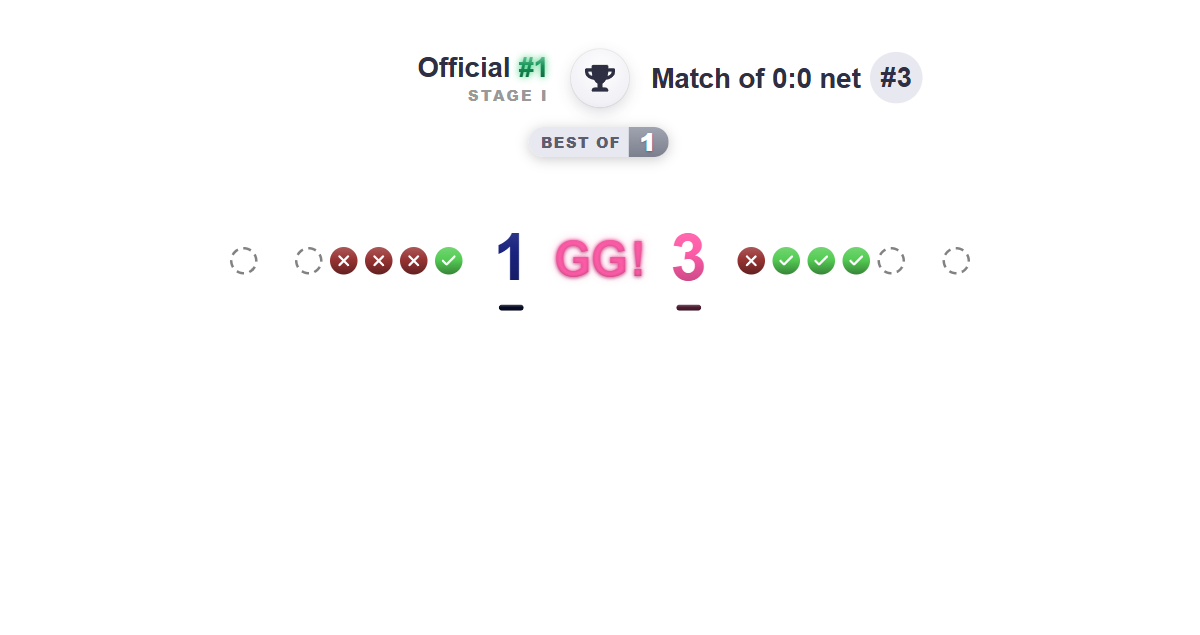
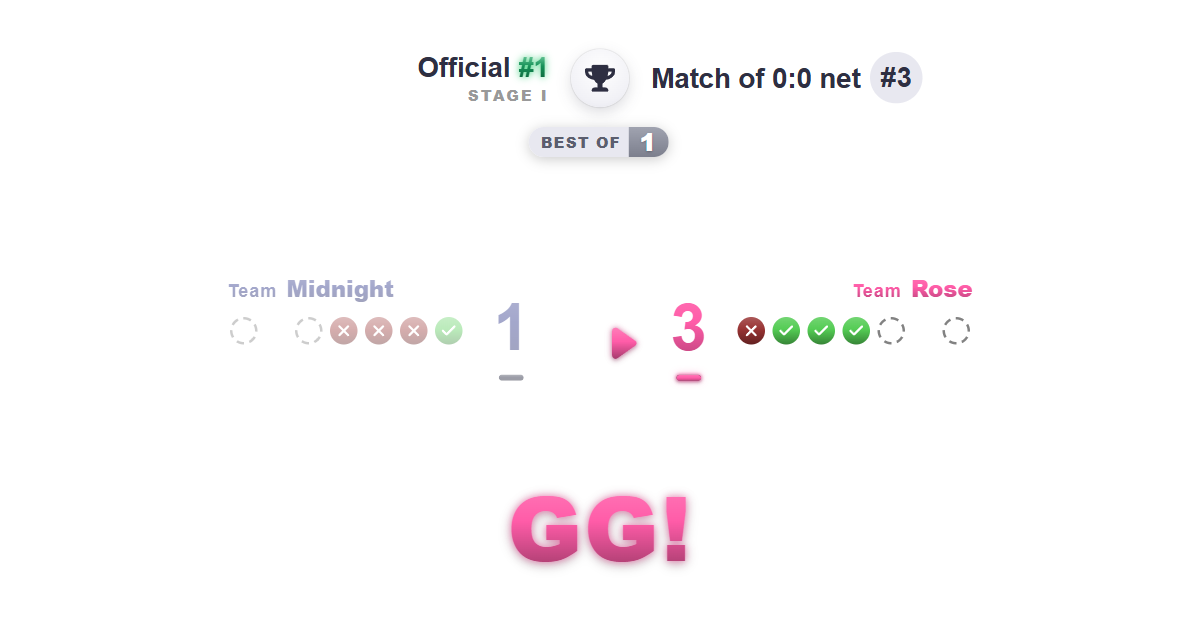
some other updates + Info Page relevancy update

diff --git a/src/pages/SpecialModeInfoPage/SpecialModeInfoPage.jsx b/src/pages/SpecialModeInfoPage/SpecialModeInfoPage.jsx
@@ -1311,6 +1311,10 @@ const OfficialSubPage = ({ scrollToAnchor }) => (
                 <img src={rightWinsPens} alt="Right team win the penalty series" className={css.image} style={{ width: '30vw', height: '34vh' }} />
             </div>
             <p className={css.info_text}>
+                And whenever a match is over, no matter how it ended, a big "GG!" in the colors of the winner shows up below the scoreboard with a small celebration, and the whole side of the loser fades out.
+                The round, which decided the match, gets the same "GG!" in the Detailed Match Results as well, playing its celebration once, when you scroll to it.
+            </p>
+            <p className={css.info_text}>
                 Match rectangle of such a match looks like this then:
             </p>
             <div className={css.image_container}>
@@ -1587,7 +1591,7 @@ const PemSmallSubPage = ({ scrollToAnchor }) => (
             <p className={css.info_text}>
                 And here is the one thing that only exists in the Champions Series Tour: a match <b>can end in a tie</b>.
                 If the score is 12-12 after the regulation and the first Overtime ends 3-3 as well, so 15-15, nobody wins and the match is over.
-                In my very first match of the Champions Series Tour, Team Spring and Team Ruby did exactly that:
+                In my very first match of the Champions Series Tour, Team Spring and Team Ruby did exactly that, so instead of "GG!", a grey "TIE!" shows up and none of the sides fades out:
             </p>
             <PemShot n={13} alt="TIE! at 15-15 in the series screen" />
             <p className={css.info_text}>

diff --git a/src/pages/SpecialModePage/components/SetBreakdownOverlay.jsx b/src/pages/SpecialModePage/components/SetBreakdownOverlay.jsx
@@ -740,14 +740,14 @@ export const SetBreakdownOverlay = ({
                             <div style={{ marginTop: "24px" }}>
                                 <BreakdownSectionTitle text="First Half" marginTop="0px" />
                             </div>
-                            {plan.firstHalf.map((round, i) => renderRound(round, `fh-${i}`))}
+                            {plan.firstHalf.map((round, i) => renderRound(round, `s${index}-fh-${i}`))}
                         </div>
                     )}
 
                     {plan.secondHalf.length > 0 && (
                         <div ref={(node) => { sectionRefs.current.secondHalf = node; }}>
                             <BreakdownDivider from="First Half" to="Second Half" />
-                            {plan.secondHalf.map((round, i) => renderRound(round, `sh-${i}`))}
+                            {plan.secondHalf.map((round, i) => renderRound(round, `s${index}-sh-${i}`))}
                         </div>
                     )}
 
@@ -766,7 +766,7 @@ export const SetBreakdownOverlay = ({
                                 ref={(node) => { sectionRefs.current[`ot${block}`] = node; }}
                             >
                                 <BreakdownDivider from={previousLabel} to={label} />
-                                {rounds.map((round, j) => renderRound(round, `ot-${block}-${j}`))}
+                                {rounds.map((round, j) => renderRound(round, `s${index}-ot-${block}-${j}`))}
                             </div>
                         );
                     })}

diff --git a/src/pages/SpecialModePage/series/SeriesScreen.jsx b/src/pages/SpecialModePage/series/SeriesScreen.jsx
@@ -1247,9 +1247,9 @@ export function SeriesScreen({ header, series, labels, actions }) {
                         {!isPlayoffsStyleSeries ? (
                             <motion.span
                                 initial={{ opacity: 0 }}
-                                animate={{ opacity: 1 }}
+                                animate={{ opacity: loserOpacity === "win" ? 0.4 : 1 }}
                                 exit={{ opacity: 0 }}
-                                transition={{ duration: 0.6 }}
+                                transition={{ duration: 0.5, ease: "easeInOut" }}
                                 style={{
                                     display: "inline-block",
 
@@ -1756,9 +1756,9 @@ export function SeriesScreen({ header, series, labels, actions }) {
                         {!isPlayoffsStyleSeries ? (
                             <motion.span
                                 initial={{ opacity: 0 }}
-                                animate={{ opacity: 1 }}
+                                animate={{ opacity: loserOpacity === "loss" ? 0.4 : 1 }}
                                 exit={{ opacity: 0 }}
-                                transition={{ duration: 0.4 }}
+                                transition={{ duration: 0.5, ease: "easeInOut" }}
                                 style={{
                                     display: "inline-block",
 

diff --git a/src/pages/SpecialModePage/components/LeadingIndicator.jsx b/src/pages/SpecialModePage/components/LeadingIndicator.jsx
@@ -84,7 +84,6 @@ export const LeadingIndicator = ({ leftTeam, rightTeam, leftScore = 0, rightScor
                     Array.from({ length: tier }, (_, i) => (
                         <motion.span
                             key={`${side}-${i}`}
-                            layout
                             className={`${css.lead_indicator_item} ${tier === 3 && i === 0 ? css.lead_indicator_pulse : ""}`}
                             initial={{ opacity: 0, scale: 0.3, x: side === "left" ? 14 : -14 }}
                             animate={{ opacity: 1 - i * 0.3, scale: 1 - i * 0.18, x: 0 }}
